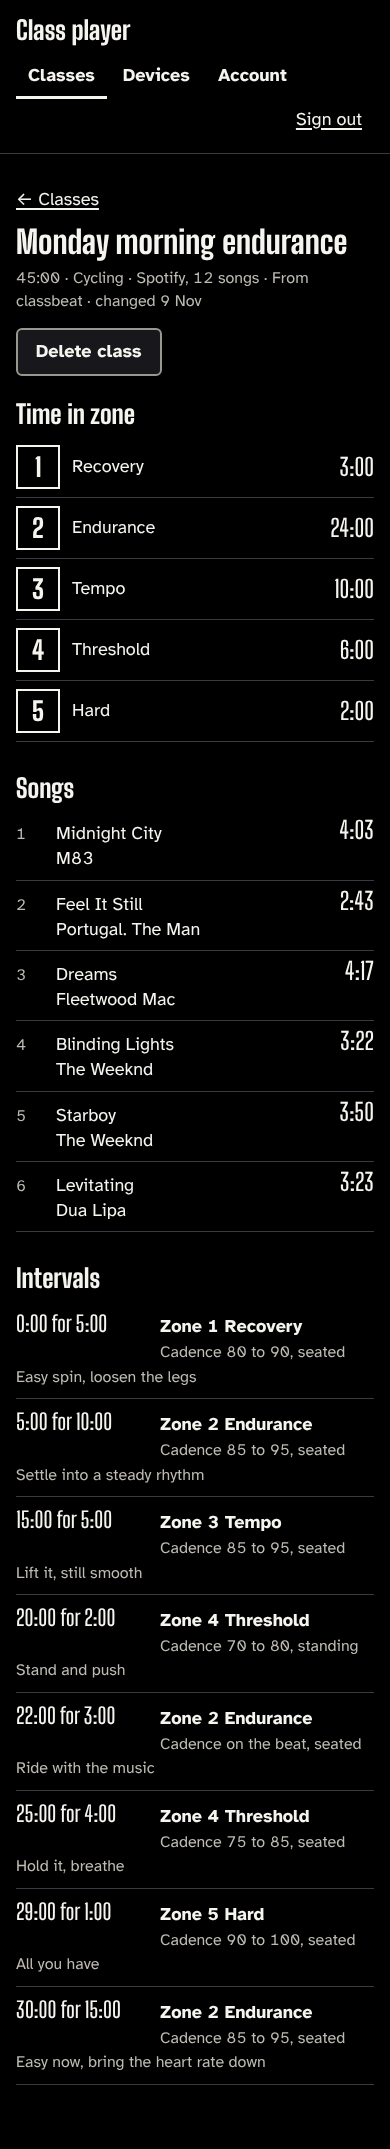
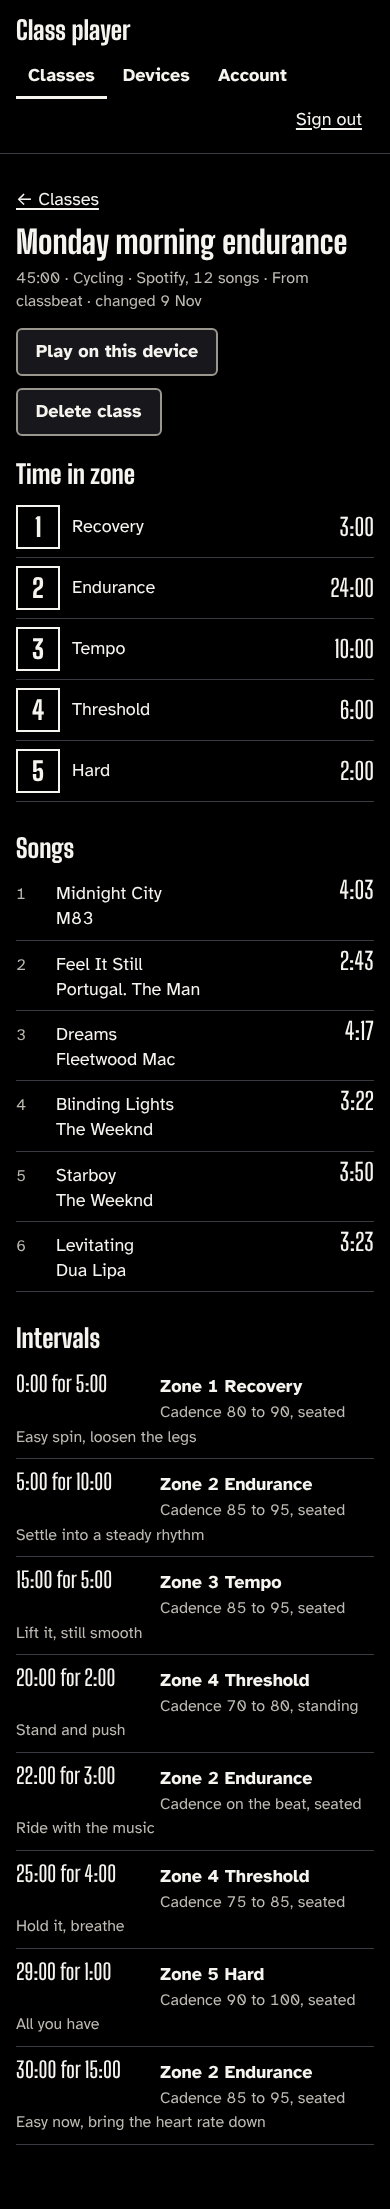
docs(design): place Play on this device in the class details actions row (#418)
Play comes first and Delete class second, in the same row under the title
and facts. Play is a quiet outlined link to /play#<class id>, shown only
for a class that exists. The detail mock-up and its shots show both.

Claude-Session: https://claude.ai/code/session_01V8DoTxwfzpAUiHqVx7SjRn

diff --git a/docs/design/mockups/site-class-detail.html b/docs/design/mockups/site-class-detail.html
@@ -8,10 +8,10 @@
 <link rel="stylesheet" href="site.css">
 </head>
 <body>
-<!-- State: /classes/{id}. GET /api/site/classes/{class_id}. Read only: no editing, no songs to choose, no rider data.  Spec: docs/design/site.md. Generated by site-pages.js: edit that, not this file. -->
+<!-- State: /classes/{id}. GET /api/site/classes/{class_id}. Read only: no editing, no songs to choose, no rider data. The actions row holds "Play on this device" (a link to /play#<class id>, full page load) then "Delete class".  Spec: docs/design/site.md. Generated by site-pages.js: edit that, not this file. -->
 <header class="head"><div class="bar"><span class="brand"><span data-tier="minor" data-min-cap="17" data-lines="1">Class player</span></span><nav class="nav" aria-label="Main"><span class="a cur" aria-current="page"><span data-tier="minor" data-min-cap="12" data-lines="1">Classes</span></span><span class="a"><span data-tier="minor" data-min-cap="12" data-lines="1">Devices</span></span><span class="a"><span data-tier="minor" data-min-cap="12" data-lines="1">Account</span></span><span class="navbtn out ul" role="button"><span data-tier="minor" data-min-cap="12" data-lines="1">Sign out</span></span></nav></div></header>
 <main class="page">
-<span class="back"><span class="a ul"><span data-tier="minor" data-min-cap="12" data-lines="1">← Classes</span></span></span><h1><span data-tier="minor" data-min-cap="21" data-lines="3">Monday morning endurance</span></h1><p class="small"><span data-tier="minor" data-min-cap="10" data-lines="6">45:00 · Cycling · Spotify, 12 songs · From classbeat · changed 9 Nov</span></p><div class="btns"><span class="btn" role="button"><span data-tier="minor" data-min-cap="12" data-lines="2">Delete class</span></span></div><h2><span data-tier="minor" data-min-cap="17" data-lines="3">Time in zone</span></h2><div class="zrow"><span class="zn"><span data-tier="minor" data-min-cap="17" data-lines="1">1</span></span><span data-tier="minor" data-min-cap="12" data-lines="2">Recovery</span><span class="tm"><span data-tier="minor" data-min-cap="17" data-lines="1">3:00</span></span></div><div class="zrow"><span class="zn"><span data-tier="minor" data-min-cap="17" data-lines="1">2</span></span><span data-tier="minor" data-min-cap="12" data-lines="2">Endurance</span><span class="tm"><span data-tier="minor" data-min-cap="17" data-lines="1">24:00</span></span></div><div class="zrow"><span class="zn"><span data-tier="minor" data-min-cap="17" data-lines="1">3</span></span><span data-tier="minor" data-min-cap="12" data-lines="2">Tempo</span><span class="tm"><span data-tier="minor" data-min-cap="17" data-lines="1">10:00</span></span></div><div class="zrow"><span class="zn"><span data-tier="minor" data-min-cap="17" data-lines="1">4</span></span><span data-tier="minor" data-min-cap="12" data-lines="2">Threshold</span><span class="tm"><span data-tier="minor" data-min-cap="17" data-lines="1">6:00</span></span></div><div class="zrow"><span class="zn"><span data-tier="minor" data-min-cap="17" data-lines="1">5</span></span><span data-tier="minor" data-min-cap="12" data-lines="2">Hard</span><span class="tm"><span data-tier="minor" data-min-cap="17" data-lines="1">2:00</span></span></div><h2><span data-tier="minor" data-min-cap="17" data-lines="3">Songs</span></h2><div class="song"><span class="no"><span data-tier="minor" data-min-cap="10" data-lines="1">1</span></span><div><span data-tier="minor" data-min-cap="12" data-lines="3">Midnight City</span><div><span data-tier="minor" data-min-cap="10" data-lines="3">M83</span></div></div><span class="tm"><span data-tier="minor" data-min-cap="17" data-lines="1">4:03</span></span></div><div class="song"><span class="no"><span data-tier="minor" data-min-cap="10" data-lines="1">2</span></span><div><span data-tier="minor" data-min-cap="12" data-lines="3">Feel It Still</span><div><span data-tier="minor" data-min-cap="10" data-lines="3">Portugal. The Man</span></div></div><span class="tm"><span data-tier="minor" data-min-cap="17" data-lines="1">2:43</span></span></div><div class="song"><span class="no"><span data-tier="minor" data-min-cap="10" data-lines="1">3</span></span><div><span data-tier="minor" data-min-cap="12" data-lines="3">Dreams</span><div><span data-tier="minor" data-min-cap="10" data-lines="3">Fleetwood Mac</span></div></div><span class="tm"><span data-tier="minor" data-min-cap="17" data-lines="1">4:17</span></span></div><div class="song"><span class="no"><span data-tier="minor" data-min-cap="10" data-lines="1">4</span></span><div><span data-tier="minor" data-min-cap="12" data-lines="3">Blinding Lights</span><div><span data-tier="minor" data-min-cap="10" data-lines="3">The Weeknd</span></div></div><span class="tm"><span data-tier="minor" data-min-cap="17" data-lines="1">3:22</span></span></div><div class="song"><span class="no"><span data-tier="minor" data-min-cap="10" data-lines="1">5</span></span><div><span data-tier="minor" data-min-cap="12" data-lines="3">Starboy</span><div><span data-tier="minor" data-min-cap="10" data-lines="3">The Weeknd</span></div></div><span class="tm"><span data-tier="minor" data-min-cap="17" data-lines="1">3:50</span></span></div><div class="song"><span class="no"><span data-tier="minor" data-min-cap="10" data-lines="1">6</span></span><div><span data-tier="minor" data-min-cap="12" data-lines="3">Levitating</span><div><span data-tier="minor" data-min-cap="10" data-lines="3">Dua Lipa</span></div></div><span class="tm"><span data-tier="minor" data-min-cap="17" data-lines="1">3:23</span></span></div><h2><span data-tier="minor" data-min-cap="17" data-lines="3">Intervals</span></h2><div class="ivh"><span><span data-tier="label" data-min-cap="9" data-lines="3">Start and length</span></span><span><span data-tier="label" data-min-cap="9" data-lines="3">Zone</span></span><span><span data-tier="label" data-min-cap="9" data-lines="3">Targets</span></span><span><span data-tier="label" data-min-cap="9" data-lines="3">Cue</span></span></div><div class="iv"><span class="when"><span data-tier="minor" data-min-cap="17" data-lines="2">0:00 for 5:00</span></span><span class="zz"><span data-tier="minor" data-min-cap="12" data-lines="2">Zone 1 Recovery</span></span><span class="dtl"><span data-tier="minor" data-min-cap="10" data-lines="2">Cadence 80 to 90, seated</span></span><span class="cue"><span data-tier="minor" data-min-cap="10" data-lines="3">Easy spin, loosen the legs</span></span></div><div class="iv"><span class="when"><span data-tier="minor" data-min-cap="17" data-lines="2">5:00 for 10:00</span></span><span class="zz"><span data-tier="minor" data-min-cap="12" data-lines="2">Zone 2 Endurance</span></span><span class="dtl"><span data-tier="minor" data-min-cap="10" data-lines="2">Cadence 85 to 95, seated</span></span><span class="cue"><span data-tier="minor" data-min-cap="10" data-lines="3">Settle into a steady rhythm</span></span></div><div class="iv"><span class="when"><span data-tier="minor" data-min-cap="17" data-lines="2">15:00 for 5:00</span></span><span class="zz"><span data-tier="minor" data-min-cap="12" data-lines="2">Zone 3 Tempo</span></span><span class="dtl"><span data-tier="minor" data-min-cap="10" data-lines="2">Cadence 85 to 95, seated</span></span><span class="cue"><span data-tier="minor" data-min-cap="10" data-lines="3">Lift it, still smooth</span></span></div><div class="iv"><span class="when"><span data-tier="minor" data-min-cap="17" data-lines="2">20:00 for 2:00</span></span><span class="zz"><span data-tier="minor" data-min-cap="12" data-lines="2">Zone 4 Threshold</span></span><span class="dtl"><span data-tier="minor" data-min-cap="10" data-lines="2">Cadence 70 to 80, standing</span></span><span class="cue"><span data-tier="minor" data-min-cap="10" data-lines="3">Stand and push</span></span></div><div class="iv"><span class="when"><span data-tier="minor" data-min-cap="17" data-lines="2">22:00 for 3:00</span></span><span class="zz"><span data-tier="minor" data-min-cap="12" data-lines="2">Zone 2 Endurance</span></span><span class="dtl"><span data-tier="minor" data-min-cap="10" data-lines="2">Cadence on the beat, seated</span></span><span class="cue"><span data-tier="minor" data-min-cap="10" data-lines="3">Ride with the music</span></span></div><div class="iv"><span class="when"><span data-tier="minor" data-min-cap="17" data-lines="2">25:00 for 4:00</span></span><span class="zz"><span data-tier="minor" data-min-cap="12" data-lines="2">Zone 4 Threshold</span></span><span class="dtl"><span data-tier="minor" data-min-cap="10" data-lines="2">Cadence 75 to 85, seated</span></span><span class="cue"><span data-tier="minor" data-min-cap="10" data-lines="3">Hold it, breathe</span></span></div><div class="iv"><span class="when"><span data-tier="minor" data-min-cap="17" data-lines="2">29:00 for 1:00</span></span><span class="zz"><span data-tier="minor" data-min-cap="12" data-lines="2">Zone 5 Hard</span></span><span class="dtl"><span data-tier="minor" data-min-cap="10" data-lines="2">Cadence 90 to 100, seated</span></span><span class="cue"><span data-tier="minor" data-min-cap="10" data-lines="3">All you have</span></span></div><div class="iv"><span class="when"><span data-tier="minor" data-min-cap="17" data-lines="2">30:00 for 15:00</span></span><span class="zz"><span data-tier="minor" data-min-cap="12" data-lines="2">Zone 2 Endurance</span></span><span class="dtl"><span data-tier="minor" data-min-cap="10" data-lines="2">Cadence 85 to 95, seated</span></span><span class="cue"><span data-tier="minor" data-min-cap="10" data-lines="3">Easy now, bring the heart rate down</span></span></div>
+<span class="back"><span class="a ul"><span data-tier="minor" data-min-cap="12" data-lines="1">← Classes</span></span></span><h1><span data-tier="minor" data-min-cap="21" data-lines="3">Monday morning endurance</span></h1><p class="small"><span data-tier="minor" data-min-cap="10" data-lines="6">45:00 · Cycling · Spotify, 12 songs · From classbeat · changed 9 Nov</span></p><div class="btns"><span class="btn" role="link"><span data-tier="minor" data-min-cap="12" data-lines="2">Play on this device</span></span><span class="btn" role="button"><span data-tier="minor" data-min-cap="12" data-lines="2">Delete class</span></span></div><h2><span data-tier="minor" data-min-cap="17" data-lines="3">Time in zone</span></h2><div class="zrow"><span class="zn"><span data-tier="minor" data-min-cap="17" data-lines="1">1</span></span><span data-tier="minor" data-min-cap="12" data-lines="2">Recovery</span><span class="tm"><span data-tier="minor" data-min-cap="17" data-lines="1">3:00</span></span></div><div class="zrow"><span class="zn"><span data-tier="minor" data-min-cap="17" data-lines="1">2</span></span><span data-tier="minor" data-min-cap="12" data-lines="2">Endurance</span><span class="tm"><span data-tier="minor" data-min-cap="17" data-lines="1">24:00</span></span></div><div class="zrow"><span class="zn"><span data-tier="minor" data-min-cap="17" data-lines="1">3</span></span><span data-tier="minor" data-min-cap="12" data-lines="2">Tempo</span><span class="tm"><span data-tier="minor" data-min-cap="17" data-lines="1">10:00</span></span></div><div class="zrow"><span class="zn"><span data-tier="minor" data-min-cap="17" data-lines="1">4</span></span><span data-tier="minor" data-min-cap="12" data-lines="2">Threshold</span><span class="tm"><span data-tier="minor" data-min-cap="17" data-lines="1">6:00</span></span></div><div class="zrow"><span class="zn"><span data-tier="minor" data-min-cap="17" data-lines="1">5</span></span><span data-tier="minor" data-min-cap="12" data-lines="2">Hard</span><span class="tm"><span data-tier="minor" data-min-cap="17" data-lines="1">2:00</span></span></div><h2><span data-tier="minor" data-min-cap="17" data-lines="3">Songs</span></h2><div class="song"><span class="no"><span data-tier="minor" data-min-cap="10" data-lines="1">1</span></span><div><span data-tier="minor" data-min-cap="12" data-lines="3">Midnight City</span><div><span data-tier="minor" data-min-cap="10" data-lines="3">M83</span></div></div><span class="tm"><span data-tier="minor" data-min-cap="17" data-lines="1">4:03</span></span></div><div class="song"><span class="no"><span data-tier="minor" data-min-cap="10" data-lines="1">2</span></span><div><span data-tier="minor" data-min-cap="12" data-lines="3">Feel It Still</span><div><span data-tier="minor" data-min-cap="10" data-lines="3">Portugal. The Man</span></div></div><span class="tm"><span data-tier="minor" data-min-cap="17" data-lines="1">2:43</span></span></div><div class="song"><span class="no"><span data-tier="minor" data-min-cap="10" data-lines="1">3</span></span><div><span data-tier="minor" data-min-cap="12" data-lines="3">Dreams</span><div><span data-tier="minor" data-min-cap="10" data-lines="3">Fleetwood Mac</span></div></div><span class="tm"><span data-tier="minor" data-min-cap="17" data-lines="1">4:17</span></span></div><div class="song"><span class="no"><span data-tier="minor" data-min-cap="10" data-lines="1">4</span></span><div><span data-tier="minor" data-min-cap="12" data-lines="3">Blinding Lights</span><div><span data-tier="minor" data-min-cap="10" data-lines="3">The Weeknd</span></div></div><span class="tm"><span data-tier="minor" data-min-cap="17" data-lines="1">3:22</span></span></div><div class="song"><span class="no"><span data-tier="minor" data-min-cap="10" data-lines="1">5</span></span><div><span data-tier="minor" data-min-cap="12" data-lines="3">Starboy</span><div><span data-tier="minor" data-min-cap="10" data-lines="3">The Weeknd</span></div></div><span class="tm"><span data-tier="minor" data-min-cap="17" data-lines="1">3:50</span></span></div><div class="song"><span class="no"><span data-tier="minor" data-min-cap="10" data-lines="1">6</span></span><div><span data-tier="minor" data-min-cap="12" data-lines="3">Levitating</span><div><span data-tier="minor" data-min-cap="10" data-lines="3">Dua Lipa</span></div></div><span class="tm"><span data-tier="minor" data-min-cap="17" data-lines="1">3:23</span></span></div><h2><span data-tier="minor" data-min-cap="17" data-lines="3">Intervals</span></h2><div class="ivh"><span><span data-tier="label" data-min-cap="9" data-lines="3">Start and length</span></span><span><span data-tier="label" data-min-cap="9" data-lines="3">Zone</span></span><span><span data-tier="label" data-min-cap="9" data-lines="3">Targets</span></span><span><span data-tier="label" data-min-cap="9" data-lines="3">Cue</span></span></div><div class="iv"><span class="when"><span data-tier="minor" data-min-cap="17" data-lines="2">0:00 for 5:00</span></span><span class="zz"><span data-tier="minor" data-min-cap="12" data-lines="2">Zone 1 Recovery</span></span><span class="dtl"><span data-tier="minor" data-min-cap="10" data-lines="2">Cadence 80 to 90, seated</span></span><span class="cue"><span data-tier="minor" data-min-cap="10" data-lines="3">Easy spin, loosen the legs</span></span></div><div class="iv"><span class="when"><span data-tier="minor" data-min-cap="17" data-lines="2">5:00 for 10:00</span></span><span class="zz"><span data-tier="minor" data-min-cap="12" data-lines="2">Zone 2 Endurance</span></span><span class="dtl"><span data-tier="minor" data-min-cap="10" data-lines="2">Cadence 85 to 95, seated</span></span><span class="cue"><span data-tier="minor" data-min-cap="10" data-lines="3">Settle into a steady rhythm</span></span></div><div class="iv"><span class="when"><span data-tier="minor" data-min-cap="17" data-lines="2">15:00 for 5:00</span></span><span class="zz"><span data-tier="minor" data-min-cap="12" data-lines="2">Zone 3 Tempo</span></span><span class="dtl"><span data-tier="minor" data-min-cap="10" data-lines="2">Cadence 85 to 95, seated</span></span><span class="cue"><span data-tier="minor" data-min-cap="10" data-lines="3">Lift it, still smooth</span></span></div><div class="iv"><span class="when"><span data-tier="minor" data-min-cap="17" data-lines="2">20:00 for 2:00</span></span><span class="zz"><span data-tier="minor" data-min-cap="12" data-lines="2">Zone 4 Threshold</span></span><span class="dtl"><span data-tier="minor" data-min-cap="10" data-lines="2">Cadence 70 to 80, standing</span></span><span class="cue"><span data-tier="minor" data-min-cap="10" data-lines="3">Stand and push</span></span></div><div class="iv"><span class="when"><span data-tier="minor" data-min-cap="17" data-lines="2">22:00 for 3:00</span></span><span class="zz"><span data-tier="minor" data-min-cap="12" data-lines="2">Zone 2 Endurance</span></span><span class="dtl"><span data-tier="minor" data-min-cap="10" data-lines="2">Cadence on the beat, seated</span></span><span class="cue"><span data-tier="minor" data-min-cap="10" data-lines="3">Ride with the music</span></span></div><div class="iv"><span class="when"><span data-tier="minor" data-min-cap="17" data-lines="2">25:00 for 4:00</span></span><span class="zz"><span data-tier="minor" data-min-cap="12" data-lines="2">Zone 4 Threshold</span></span><span class="dtl"><span data-tier="minor" data-min-cap="10" data-lines="2">Cadence 75 to 85, seated</span></span><span class="cue"><span data-tier="minor" data-min-cap="10" data-lines="3">Hold it, breathe</span></span></div><div class="iv"><span class="when"><span data-tier="minor" data-min-cap="17" data-lines="2">29:00 for 1:00</span></span><span class="zz"><span data-tier="minor" data-min-cap="12" data-lines="2">Zone 5 Hard</span></span><span class="dtl"><span data-tier="minor" data-min-cap="10" data-lines="2">Cadence 90 to 100, seated</span></span><span class="cue"><span data-tier="minor" data-min-cap="10" data-lines="3">All you have</span></span></div><div class="iv"><span class="when"><span data-tier="minor" data-min-cap="17" data-lines="2">30:00 for 15:00</span></span><span class="zz"><span data-tier="minor" data-min-cap="12" data-lines="2">Zone 2 Endurance</span></span><span class="dtl"><span data-tier="minor" data-min-cap="10" data-lines="2">Cadence 85 to 95, seated</span></span><span class="cue"><span data-tier="minor" data-min-cap="10" data-lines="3">Easy now, bring the heart rate down</span></span></div>
 </main>
 </body>
 </html>

diff --git a/docs/design/mockups/site-pages.js b/docs/design/mockups/site-pages.js
@@ -51,7 +51,7 @@ const SONGS = [['Midnight City', 'M83', '4:03'], ['Feel It Still', 'Portugal. Th
 const IV = [['0:00', '5:00', 'Zone 1 Recovery', 'Cadence 80 to 90, seated', 'Easy spin, loosen the legs'], ['5:00', '10:00', 'Zone 2 Endurance', 'Cadence 85 to 95, seated', 'Settle into a steady rhythm'], ['15:00', '5:00', 'Zone 3 Tempo', 'Cadence 85 to 95, seated', 'Lift it, still smooth'], ['20:00', '2:00', 'Zone 4 Threshold', 'Cadence 70 to 80, standing', 'Stand and push'], ['22:00', '3:00', 'Zone 2 Endurance', 'Cadence on the beat, seated', 'Ride with the music'], ['25:00', '4:00', 'Zone 4 Threshold', 'Cadence 75 to 85, seated', 'Hold it, breathe'], ['29:00', '1:00', 'Zone 5 Hard', 'Cadence 90 to 100, seated', 'All you have'], ['30:00', '15:00', 'Zone 2 Endurance', 'Cadence 85 to 95, seated', 'Easy now, bring the heart rate down']];
 const detailHead = (extra = '') => `<span class="back"><span class="a ul">${T('body', '← Classes', 1)}</span></span>${h1('Monday morning endurance')}<p class="small">${T('small', '45:00 · Cycling · Spotify, 12 songs · From classbeat · changed 9 Nov')}</p>${extra}`;
 const detailBody = `${h2('Time in zone')}${ZONES.map(([n, nm, t]) => `<div class="zrow"><span class="zn">${T('zn', n, 1)}</span>${T('body', nm, 2)}<span class="tm">${T('len', t, 1)}</span></div>`).join('')}${h2('Songs')}${SONGS.map(([t, a, l], i) => `<div class="song"><span class="no">${T('small', String(i + 1), 1)}</span><div>${T('strong', t, 3)}<div>${T('small', a, 3)}</div></div><span class="tm">${T('len', l, 1)}</span></div>`).join('')}${h2('Intervals')}<div class="ivh">${['Start and length', 'Zone', 'Targets', 'Cue'].map((x) => `<span>${lab(x)}</span>`).join('')}</div>${IV.map(([s, l, z, d, c]) => `<div class="iv"><span class="when">${T('len', `${s} for ${l}`, 2)}</span><span class="zz">${T('strong', z, 2)}</span><span class="dtl">${T('small', d, 2)}</span><span class="cue">${T('small', c, 3)}</span></div>`).join('')}`;
-add('class-detail', 'Class details', 'classes', `${detailHead(btns(btn('Delete class')))}${detailBody}`, 'State: /classes/{id}. GET /api/site/classes/{class_id}. Read only: no editing, no songs to choose, no rider data.');
+add('class-detail', 'Class details', 'classes', `${detailHead(btns(btn('Play on this device', { link: true }), btn('Delete class')))}${detailBody}`, 'State: /classes/{id}. GET /api/site/classes/{class_id}. Read only: no editing, no songs to choose, no rider data. The actions row holds "Play on this device" (a link to /play#<class id>, full page load) then "Delete class".');
 add('class-delete', 'Delete class', 'classes', `${detailHead(`<div class="panel" role="alertdialog" aria-labelledby="dh"><h2>${T('h2', 'Delete this class?', 3)}</h2>${p('It is removed from your library at once, and from each of your devices when it next syncs. It cannot be undone here.')}${btns(btn('Keep the class', { primary: true, focus: true }), btn('Delete class'))}</div>`)}${detailBody}`, 'State: the confirmation, in the page (not a pop-up). Keep is the default. Delete sends DELETE /api/site/classes/{class_id}.');
 add('class-not-found', 'Class not found', 'classes', `${h1('That class is not here')}${p('It may have been deleted. Go back to your classes.')}${btns(btn('Classes', { primary: true }))}`, 'State: 404 not_found from GET or DELETE /api/site/classes/{class_id} (also another account\'s id, and a removed class).');
 

diff --git a/docs/design/mockups/site-kit.js b/docs/design/mockups/site-kit.js
@@ -26,10 +26,10 @@ const small = (text) => p(text, 'small');
 const link = (text, extra = '') => `<span class="a ul ${extra}">${T('body', text, 3)}</span>`;
 const lab = (text) => T('label', text, 3);
 
-// A button. opts: primary, dis, focus, block, q (outlined, inside a plate).
+// A button. opts: primary, dis, focus, block, q (outlined, inside a plate), link (a real link that looks like the button).
 function btn(text, o = {}) {
   const c = ['btn', o.primary && 'primary', o.dis && 'dis', o.focus && 'focus', o.block && 'full', o.q && 'q'].filter(Boolean).join(' ');
-  return `<span class="${c}" role="button"${o.dis ? ' aria-disabled="true"' : ''}>${T('btn', text, 2)}</span>`;
+  return `<span class="${c}" role="${o.link ? 'link' : 'button'}"${o.dis ? ' aria-disabled="true"' : ''}>${T('btn', text, 2)}</span>`;
 }
 const btns = (...list) => `<div class="btns">${list.join('')}</div>`;
 

diff --git a/docs/design/site.md b/docs/design/site.md
@@ -146,10 +146,20 @@ text and S1 and S2 hold.
 | List | "Classes" and the count, the filter (from 8 classes), column labels, one row per class: title (a link), length `m:ss` or `h:mm:ss`, source, changed date. **Title A to Z**, case and accents ignored, equal titles by id; never by date or use (rules 10 and 13) | `GET classes` | [classes](mockups/site-classes.html) |
 | Loading | "Loading your classes…" | `GET classes`, every page | [loading](mockups/site-classes-loading.html) |
 | Empty | "No classes yet", how classes arrive ("In classbeat, choose Connect player"), a button to Linked apps | `GET classes` | [empty](mockups/site-classes-empty.html) |
-| Class details | Title; length, sport, music source and song count, source, changed date; "Delete class"; **Time in zone** (zone number in an outlined box, name, time); **Songs** (number, title, artist, length); **Intervals** (start and length, zone as number and name, cadence and position or the running target, the cue text). Read only | `GET classes/{id}` | [detail](mockups/site-class-detail.html) |
+| Class details | Title; length, sport, music source and song count, source, changed date; **the actions row** ("Play on this device", then "Delete class"); **Time in zone** (zone number in an outlined box, name, time); **Songs** (number, title, artist, length); **Intervals** (start and length, zone as number and name, cadence and position or the running target, the cue text). Read only | `GET classes/{id}` | [detail](mockups/site-class-detail.html) |
 | Delete, confirming | Panel "Delete this class?", "It is removed from your library at once, and from each of your devices when it next syncs. It cannot be undone here.", "Keep the class" (default, focused), "Delete class" | `DELETE classes/{id}` | [delete](mockups/site-class-delete.html) |
 | Deleted | Back on the list with the note "Deleted “*title*”", "Your devices remove it the next time they sync"; the selection is not kept | 204 | [deleted](mockups/site-classes-deleted.html) |
 | Not found | "That class is not here": a deleted class, an unknown id, another account's id and a removal marker all give this | 404 `not_found` | [not found](mockups/site-class-not-found.html) |
+
+**The actions row on class details** sits under the title and the facts line and before "Time in
+zone". "Play on this device" comes first and "Delete class" second, at least 8 px apart (12 px in
+the mock-up) and wrapping onto a second line on a narrow screen (S7). Both are the quiet, outlined
+button: "Delete class" keeps its style, and neither is the filled primary. "Play on this device" is
+a real link to `/play#<class id>`, loaded in full (an ordinary page load, not opened in place by
+the site's router), so the play page starts clean. It carries words only, no icon, and meets S7
+and S8. It shows only when the class exists and has a canonical id: not while loading, not on an
+error and not on "That class is not here". While the delete panel is open the row is replaced by
+the panel, as today.
 
 Notes: the route answers latest change first, 50 to 200 to a page. The page reads every page and
 sorts here, so the order is the title's (see "What the backend would need"). Removal markers carry no
